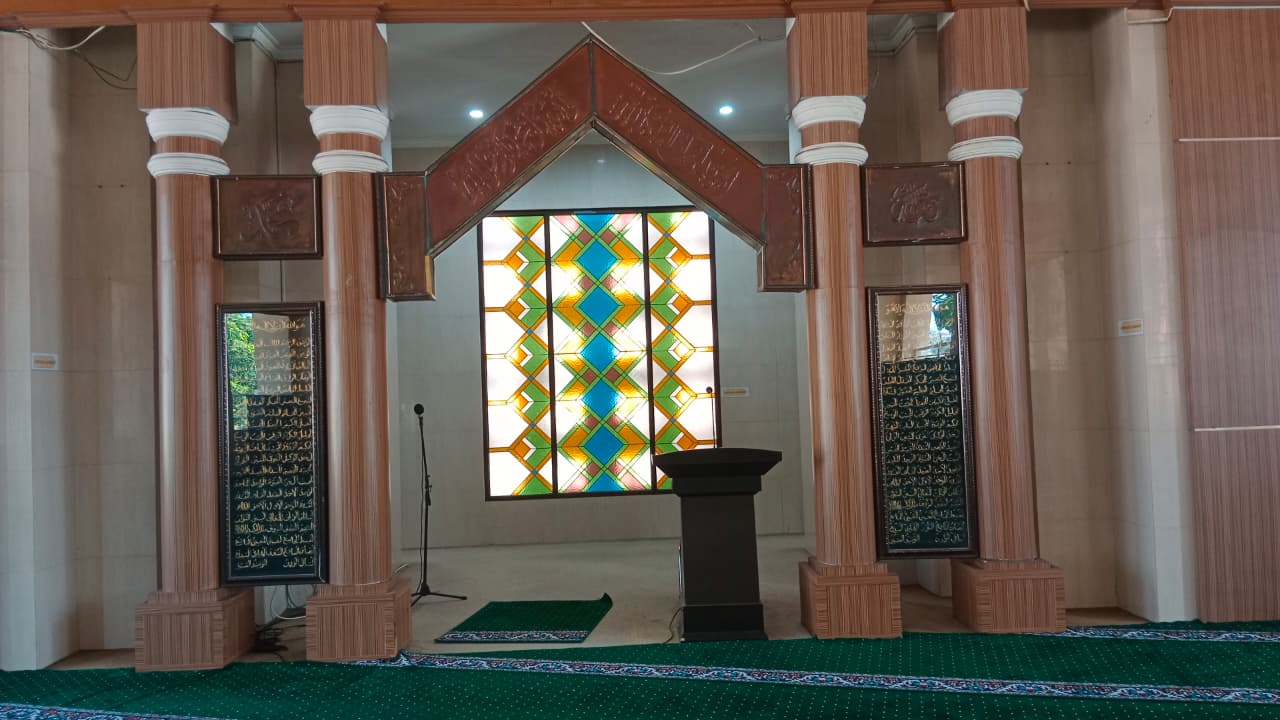
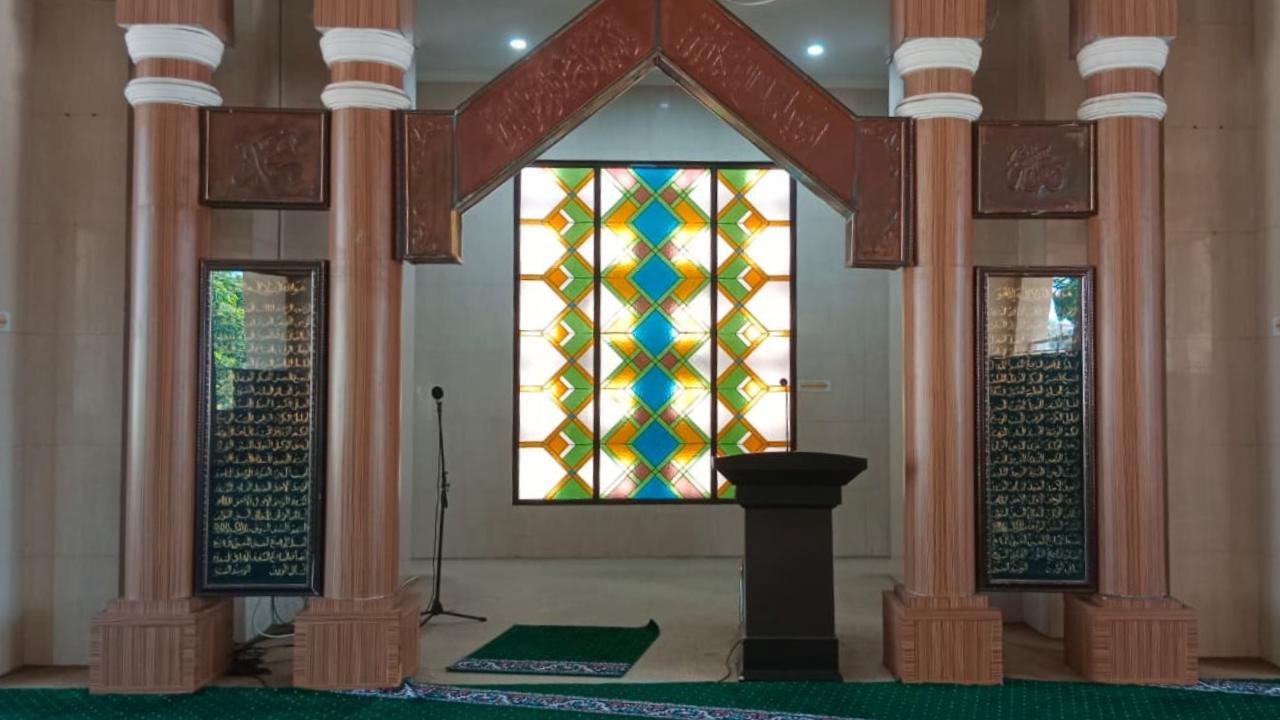
fix: improve loading state layout and adjust button visibility in FinanceSection

diff --git a/app/components/FinanceSection.tsx b/app/components/FinanceSection.tsx
@@ -355,10 +355,12 @@ function FinanceSection({
 
           {loadingFinance ? (
             <div className="text-center py-8">
-              <Loader className="animate-spin text-3xl mb-4 text-gray-400 dark:text-gray-500" />
-              <p className="text-gray-600 dark:text-gray-400">
-                Memuat data keuangan...
-              </p>
+              <div className="flex flex-col items-center justify-center space-y-4">
+                <p className="text-gray-600 dark:text-gray-400">
+                  Memuat data keuangan...
+                </p>
+                <Loader className="animate-spin text-3xl text-gray-400 dark:text-gray-500" />
+              </div>
             </div>
           ) : financeSummary ? (
             <>
@@ -410,7 +412,7 @@ function FinanceSection({
                       ) : (
                         <Loader className="text-sm" />
                       )}
-                      <span className="hidden sm:inline">Refresh</span>
+                      <span className="sm:inline">Refresh</span>
                     </Button>
                   </div>
                 </div>
@@ -521,7 +523,7 @@ function FinanceSection({
                     </TableHeader>
                     <TableBody>
                       {paginatedFinanceData &&
-                      paginatedFinanceData.data.length > 0 ? (
+                        paginatedFinanceData.data.length > 0 ? (
                         paginatedFinanceData.data.map(
                           (transaction: FinanceData) => (
                             <TableRow
@@ -704,11 +706,10 @@ function FinanceSection({
                                 size="sm"
                                 onClick={() => handlePageChange(pageNum)}
                                 disabled={loadingFinance}
-                                className={`w-10 ${
-                                  pageNum === paginationInfo?.currentPage
+                                className={`w-10 ${pageNum === paginationInfo?.currentPage
                                     ? "dark:bg-green-600 dark:text-white"
                                     : "dark:bg-gray-700 dark:border-gray-600 dark:text-gray-200 dark:hover:bg-gray-600"
-                                }`}
+                                  }`}
                               >
                                 {pageNum}
                               </Button>
